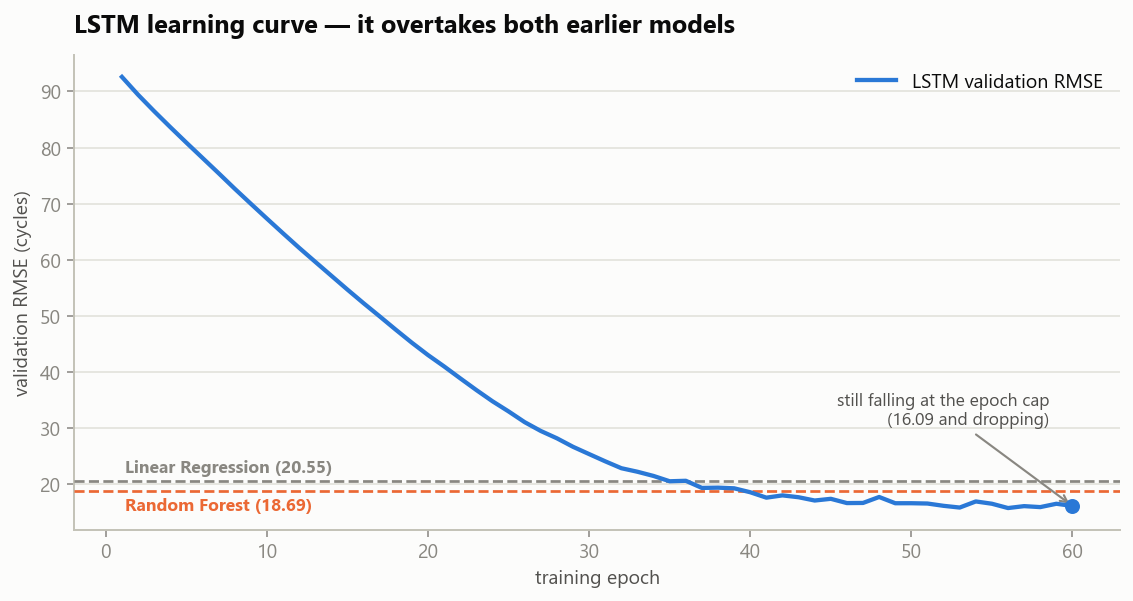
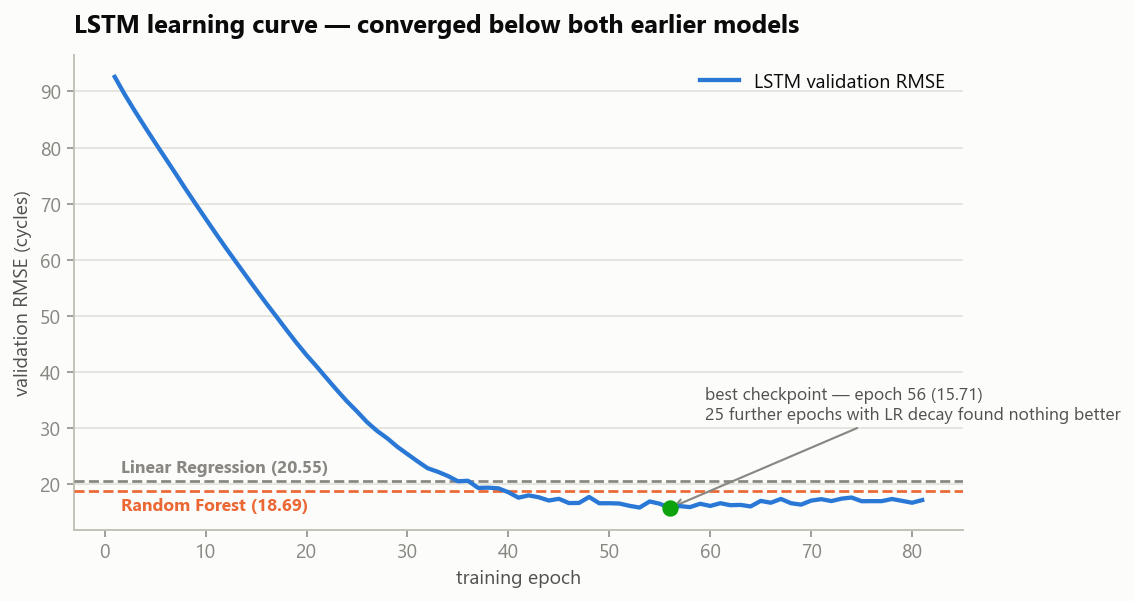
Round 5: confirm the LSTM is converged, correct the "under-trained" claim
The previous commit reported 16.59 RMSE as "a floor, not a ceiling" because the
60-epoch run ended with validation RMSE apparently still falling. That was wrong.

Re-ran with a 300-epoch budget and ReduceLROnPlateau LR decay. It early-stopped
at epoch 81 having found nothing better, and produced test metrics identical to
the first run. Reason: the best checkpoint is epoch 56 -- already inside the
original 60 epochs -- and train_lstm() restores best-validation weights, not
final-epoch weights. The apparent downward slope at epoch 60 was noise around a
minimum already reached at 56.

- lstm_model.py: 300-epoch cap, patience 25, ReduceLROnPlateau, LR logged
- README: new Round 5 documenting this as a kept negative result; removed the
  "floor, not a ceiling" and "under-trained" claims and said plainly that an
  earlier draft got it wrong
- Learning-curve figure now marks the epoch-56 checkpoint instead of annotating
  a nonexistent downward trend
- Limitations: further gains need a different architecture or window length,
  not more epochs -- and we have not run that sweep

Model metrics are unchanged: LSTM RMSE 16.59 / MAE 12.20 / R2 0.842.

diff --git a/lstm_model.py b/lstm_model.py
@@ -28,10 +28,18 @@ HIDDEN_SIZE = 64
 NUM_LAYERS = 2
 DROPOUT = 0.2
 
-EPOCHS = 60
+# Round 5 schedule. The first run capped at 60 epochs and stopped with
+# validation RMSE still falling — early stopping never fired, so 16.59 was a
+# floor rather than the model's ceiling. This schedule runs long enough for the
+# curve to actually flatten, and decays the learning rate on plateau so the
+# tail of training can refine instead of bouncing around the minimum.
+EPOCHS = 300
 BATCH_SIZE = 256
 LEARNING_RATE = 1e-3
-PATIENCE = 8        # early-stopping patience, in epochs
+PATIENCE = 25       # early-stopping patience, in epochs
+LR_FACTOR = 0.5     # multiply LR by this when validation RMSE plateaus
+LR_PATIENCE = 8     # epochs of no improvement before decaying
+MIN_LR = 1e-5       # stop decaying here
 SEED = 42
 
 ID_COL = "unit_number"
@@ -122,6 +130,9 @@ def train_lstm(X_tr, y_tr, X_val, y_val, epochs=EPOCHS, batch_size=BATCH_SIZE,
 
     model = LSTMRegressor(n_features=X_tr.shape[2])
     optimizer = torch.optim.Adam(model.parameters(), lr=lr)
+    scheduler = torch.optim.lr_scheduler.ReduceLROnPlateau(
+        optimizer, factor=LR_FACTOR, patience=LR_PATIENCE, min_lr=MIN_LR,
+    )
     loss_fn = nn.MSELoss()
 
     loader = DataLoader(
@@ -153,15 +164,19 @@ def train_lstm(X_tr, y_tr, X_val, y_val, epochs=EPOCHS, batch_size=BATCH_SIZE,
             val_pred = torch.clamp(model(Xv), 0, RUL_CAP)
             val_rmse = torch.sqrt(loss_fn(val_pred, yv)).item()
 
+        scheduler.step(val_rmse)
+        current_lr = optimizer.param_groups[0]["lr"]
+
         history.append({
             "epoch": epoch,
             "train_mse": total / len(y_tr),
             "val_rmse": val_rmse,
+            "lr": current_lr,
         })
 
-        if verbose and (epoch % 5 == 0 or epoch == 1):
+        if verbose and (epoch % 10 == 0 or epoch == 1):
             print(f"  epoch {epoch:3d}  train MSE {total / len(y_tr):7.2f}"
-                  f"   val RMSE {val_rmse:6.2f}")
+                  f"   val RMSE {val_rmse:6.2f}   lr {current_lr:.1e}")
 
         if val_rmse < best_rmse - 1e-4:
             best_rmse = val_rmse

diff --git a/scripts/generate_model_comparison.py b/scripts/generate_model_comparison.py
@@ -150,15 +150,20 @@ def fig_training_curve():
                     f"{LABEL[name].replace(chr(10), ' ')} ({reg.loc[name, 'RMSE']:.2f})",
                     ha="left", fontsize=9, color=color, fontweight="bold")
 
-    final = hist["val_rmse"].iloc[-1]
-    ax.scatter([hist["epoch"].iloc[-1]], [final], color=BLUE, s=45, zorder=5)
-    ax.annotate(f"still falling at the epoch cap\n({final:.2f} and dropping)",
-                xy=(hist["epoch"].iloc[-1], final),
-                xytext=(-12, 42), textcoords="offset points",
-                ha="right", fontsize=9, color=INK2,
+    # Mark the checkpoint that was actually kept: training restores the best
+    # validation weights, so this epoch — not the last one — is the model.
+    i = hist["val_rmse"].idxmin()
+    best_ep, best_val = hist.loc[i, "epoch"], hist.loc[i, "val_rmse"]
+    ax.scatter([best_ep], [best_val], color=GOOD, s=55, zorder=6)
+    ax.annotate(f"best checkpoint — epoch {int(best_ep)} ({best_val:.2f})\n"
+                f"{int(hist['epoch'].max() - best_ep)} further epochs "
+                f"with LR decay found nothing better",
+                xy=(best_ep, best_val),
+                xytext=(18, 46), textcoords="offset points",
+                ha="left", fontsize=9, color=INK2,
                 arrowprops=dict(arrowstyle="->", color=MUTED, linewidth=1.1))
 
-    style(ax, "LSTM learning curve — it overtakes both earlier models",
+    style(ax, "LSTM learning curve — converged below both earlier models",
           xlabel="training epoch", ylabel="validation RMSE (cycles)")
     ax.legend(frameon=False, fontsize=10, loc="upper right")
     save(fig, "lstm_training_curve.png")

diff --git a/README.md b/README.md
@@ -225,10 +225,11 @@ worse average.
 
 ## 🔁 Model Selection: Four Rounds of Training
 
-We did **not** pick a model up front. We ran **four rounds of training**, each one
-answering a question the previous round raised, and let the measurements decide. Every
-model below is still in the repo and still reproducible — this section is the audit
-trail.
+We did **not** pick a model up front. We ran **five rounds of training**, each one
+answering a question the previous round raised, and let the measurements decide. Two of
+those rounds were **negative results we kept** — they're the reason the final choice is
+defensible. Every model below is still in the repo and still reproducible; this section is
+the audit trail.
 
 ```mermaid
 flowchart LR
@@ -236,11 +237,12 @@ flowchart LR
     R2["<b>Round 2</b><br/>RF, tuned<br/><i>Do nonlinearities help?</i>"]
     R3["<b>Round 3</b><br/>Rolling features<br/>+ Gradient Boosting<br/><i>Can we push trees further?</i>"]
     R4["<b>Round 4</b><br/>LSTM<br/><i>Does sequence memory win?</i>"]
-    R1 --> R2 --> R3 --> R4 --> W["✅ <b>LSTM selected</b><br/>RMSE 16.59"]
+    R5["<b>Round 5</b><br/>300 epochs + LR decay<br/><i>Is the LSTM under-trained?</i>"]
+    R1 --> R2 --> R3 --> R4 --> R5 --> W["✅ <b>LSTM selected</b><br/>RMSE 16.59<br/>converged"]
 
     classDef done fill:#e1e0d9,stroke:#898781,color:#0b0b0b;
     classDef win fill:#d7f0e5,stroke:#1baf7a,color:#0b0b0b;
-    class R1,R2,R3 done;
+    class R1,R2,R3,R5 done;
     class R4,W win;
 ```
 
@@ -286,6 +288,24 @@ was the **input representation**: every model so far saw one cycle at a time.
 
 **Yes, decisively.** A 2-layer LSTM reading a **30-cycle sliding window** per engine beat
 every previous round on every metric. See [Results](#-results).
+
+### Round 5 — Extended training & LR decay *(convergence check)*
+**Question:** was Round 4 under-trained — is there more left in the LSTM?
+
+**No.** Round 4 stopped at a 60-epoch cap with the curve looking like it was still
+descending, so we re-ran with a **300-epoch budget and `ReduceLROnPlateau`** learning-rate
+decay. It early-stopped at epoch 81 having found nothing better: the best checkpoint was
+**epoch 56**, already inside the original run.
+
+Test metrics came out **identical to Round 4** — which is the expected result, since
+training restores best-validation weights rather than final-epoch weights, and both runs
+share a seed. What looked like a still-falling curve at epoch 60 was **noise around a
+minimum already reached at epoch 56**.
+
+> **We report 16.59 as a converged result, not a floor.** An earlier draft of this README
+> claimed the LSTM was under-trained; Round 5 disproved that, and we corrected it rather
+> than leaving the more flattering claim in place. Further gains would need a different
+> architecture or window length — not more epochs.
 
 ### Making the four rounds comparable
 `compare_models.py` re-trains **all four models in one script** and enforces three
@@ -357,10 +377,11 @@ This isn't "deep learning is magic." It's the input representation:
 > **trajectory, not a snapshot** — and Round 3 proved that no amount of tree tuning fixes
 > a snapshot-shaped input.
 
-<img src="docs/images/lstm_training_curve.png" width="720" alt="LSTM validation RMSE per epoch, crossing below the Random Forest and Linear baselines">
+<img src="docs/images/lstm_training_curve.png" width="720" alt="LSTM validation RMSE per epoch, converging below the Random Forest and Linear baselines, best checkpoint at epoch 56">
 
-The learning curve also shows the LSTM **was still improving when it hit the 60-epoch
-cap** — early stopping never triggered. We report **16.59 as a floor, not a ceiling.**
+The curve crosses below the Random Forest around **epoch 39** and flattens. The kept model
+is the **epoch-56 checkpoint** — training restores best-validation weights, so the final
+epoch is not the model.
 
 ### The Random Forest in detail
 The three figures below profile the Round-2 Random Forest, which remains the model the
@@ -516,9 +537,10 @@ Jet-Engine-Predictive-Maintenance-ML/
   metric, not directly comparable to leaderboard RMSE.
 - **Single operating condition.** FD001 is the simplest C-MAPSS subset (one condition,
   one fault mode). FD002–FD004 add operating regimes and fault modes.
-- **The LSTM is under-trained.** It hit the 60-epoch cap with validation RMSE still
-  falling, so **16.59 is a floor, not its ceiling.** A longer schedule and a hyperparameter
-  sweep (window length, hidden size, learning rate) are the obvious next gains.
+- **The LSTM is converged, so easy gains are gone.** Round 5 showed more epochs and
+  learning-rate decay buy nothing. Further improvement needs a **different architecture or
+  window length** — a hyperparameter sweep over window size, hidden units and layer count
+  is the honest next step, and we have not run one.
 - **The dashboard still serves the Random Forest.** Round 4 changed which model is *best*,
   not yet which model is *deployed*; wiring the LSTM into `predict_rul()` is the next
   engineering step, and it means shipping torch to the deploy environment.

diff --git a/CLAUDE.md b/CLAUDE.md
@@ -77,9 +77,15 @@ It enforces the fairness rules that make the numbers quotable: one engine-groupe
 since the LSTM can't score cycles 1-29 and shouldn't get to skip the hard early ones), and one
 shared classification scoreboard so the classifier can be compared against the regressors.
 Held-out results: LSTM RMSE 16.59 / MAE 12.20 / R² 0.842, beating RF (18.69) and Linear
-(20.55); LSTM F1 0.906 vs Logistic 0.828. **Caveat: the LSTM hit the 60-epoch cap with
-validation RMSE still falling, so those are a floor, not its ceiling.** Full run takes ~10 min
-on CPU.
+(20.55); LSTM F1 0.906 vs Logistic 0.828. Full run takes ~12 min on CPU.
+
+**The LSTM is converged — do not describe it as under-trained.** An early draft did, because
+the 60-epoch run ended at val RMSE 16.09 and looked like it was still descending. A 300-epoch
+rerun with `ReduceLROnPlateau` (documented as Round 5) early-stopped at epoch 81 and produced
+*identical* test metrics: the best checkpoint is **epoch 56**, already inside the original run,
+and `train_lstm()` restores best-validation weights rather than final-epoch weights. The
+apparent downward slope at epoch 60 was noise around a minimum already reached. Further gains
+need a different architecture/window length, not more epochs.
 
 `compare_models.py` writes its measured results to `docs/model_comparison_regression.csv`,
 `docs/model_comparison_classification.csv` and `docs/lstm_training_curve.csv`.
